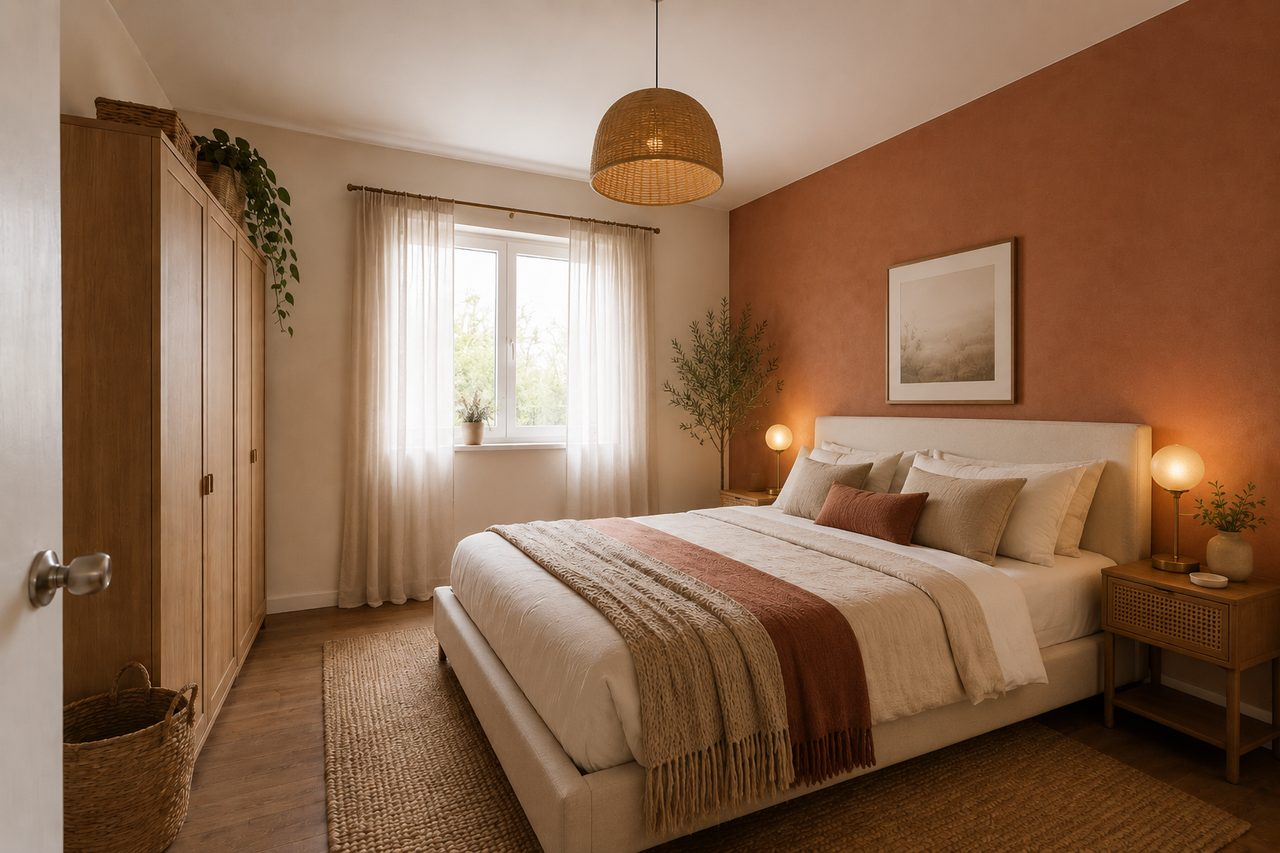
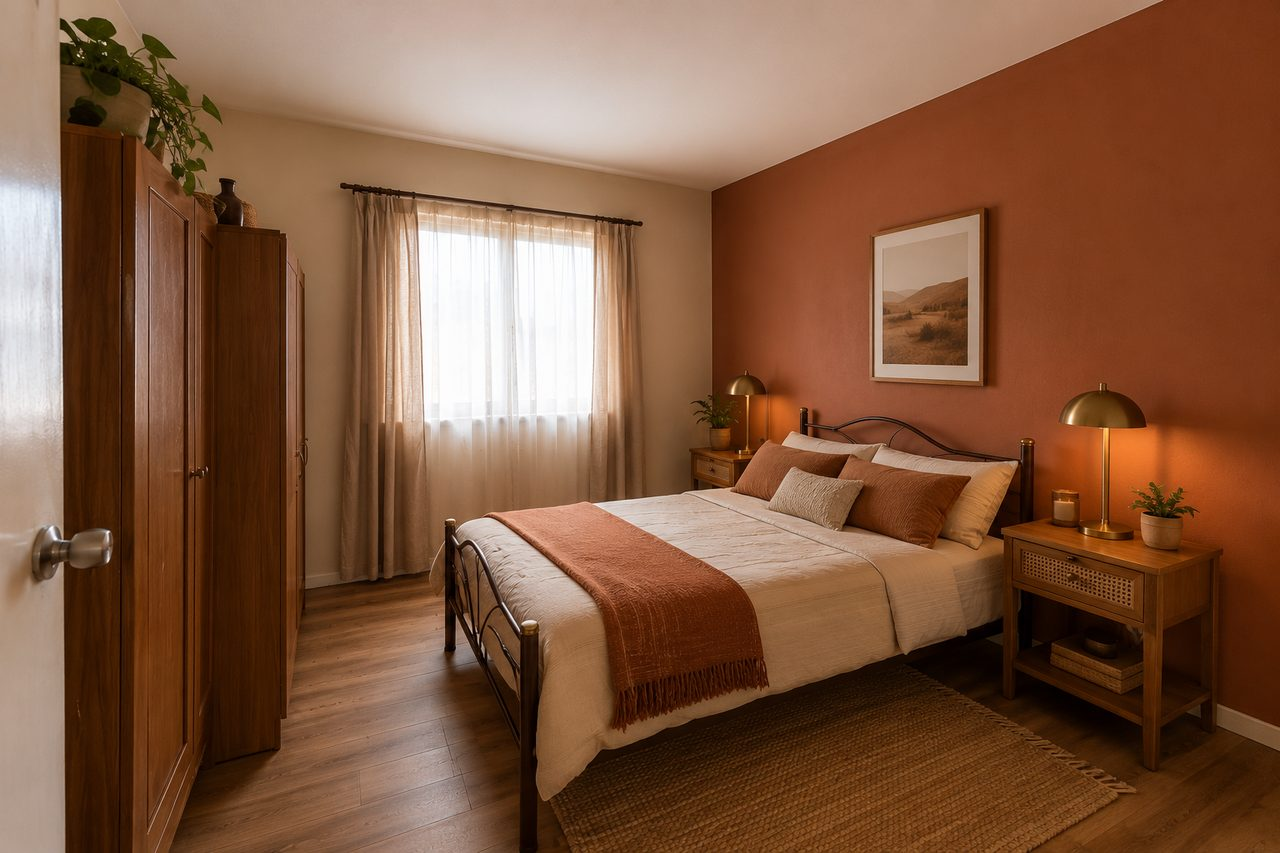
Remodela: Dormitorio EN VIVO (4o espacio) — imagenes con la cama alineada
El usuario regenero los 3 "despues" del dormitorio con la cama en su huella
exacta (prompts corregidos de la guia); ya no "salta" en el slider. Procesadas
PNG->JPG, redimensionadas a 1280x853 (mismo aspecto que el "antes") y
optimizadas (~100-150KB). Descomentado el objeto Dormitorio en index.html:
antes + 3 estilos (Moderno/Nordico/Calido) con paleta, materiales y presupuesto.
El simulador pasa de 3 a 4 espacios (Living/Local/Cocina/Dormitorio).
Verificado (Preview MCP por DOM: 4 espacios, imagenes cargan a 1280px, cambiar
de estilo intercambia el "despues", consola limpia) + revision visual de las 3
imagenes (cama en la misma posicion/huella que el "antes").

diff --git a/demos/remodela/index.html b/demos/remodela/index.html
@@ -398,16 +398,7 @@
             pal:['#EFE2D2','#C08B5C','#9A5B3B','#2B2320'],
             mat:['Muebles de madera tono miel','Cerámica terracota artesanal','Grifería y tiradores negros','Piso de madera tono medio','Iluminación cálida colgante'] }
         ] },
-      /* DORMITORIO — objeto ya armado abajo; SOLO faltan imágenes alineadas para reactivarlo.
-         Problema actual: la cama de los "después" (dormitorio-moderno/nordico/calido.jpg) quedó más
-         grande y más adelantada que en dormitorio-antes.jpg, así que "salta" al cruzar el divisor
-         del slider (la gracia del antes/después es que TODO queda igual salvo las terminaciones).
-         PARA REACTIVAR: (1) regenerar los 3 "después" editando dormitorio-antes.jpg con alineación
-         ESTRICTA — misma cama: idéntico tamaño, posición y orientación; cambiar SOLO paredes, piso,
-         textiles, muebles y luz (ver GUIA-IMAGENES.md sección 0, "no mover muebles"). (2) Reemplazar
-         los 3 .jpg (mismos nombres). (3) Descomentar el objeto de aquí abajo: borrar la línea que
-         abre el comentario (justo antes del objeto) y la que lo cierra (justo después). */
-      /*
+      /* Dormitorio — 4º espacio (imágenes "después" regeneradas 2026-07-01 con la cama alineada). */
       { id:'dormitorio', nom:'Dormitorio', ic:'<path d="M3 18v-5a2 2 0 0 1 2-2h14a2 2 0 0 1 2 2v5M3 18v2M21 18v2M3 15h18M6 11V9a1 1 0 0 1 1-1h3a1 1 0 0 1 1 1v2M13 11V9a1 1 0 0 1 1-1h3a1 1 0 0 1 1 1v2"/>', antes:'img/dormitorio-antes.jpg',
         estilos:[
           { id:'moderno', nom:'Moderno', tag:'Sereno y luminoso', img:'img/dormitorio-moderno.jpg',
@@ -425,8 +416,7 @@
             con:'Muro de acento terracota, textiles en tonos miel y tostado, y luz cálida. Un dormitorio envolvente, de carácter y con alma de casa.',
             pal:['#EFE2D2','#C88A5A','#9A5B3B','#2B2320'],
             mat:['Muro de acento terracota','Textiles en miel y tostado','Velador de ratán','Piso de madera tono medio','Iluminación cálida ambiental'] }
-        ] },
-      */
+        ] }
     ];
     var spc = 0, sty = 0;
     function space(){ return SPACES[spc]; }